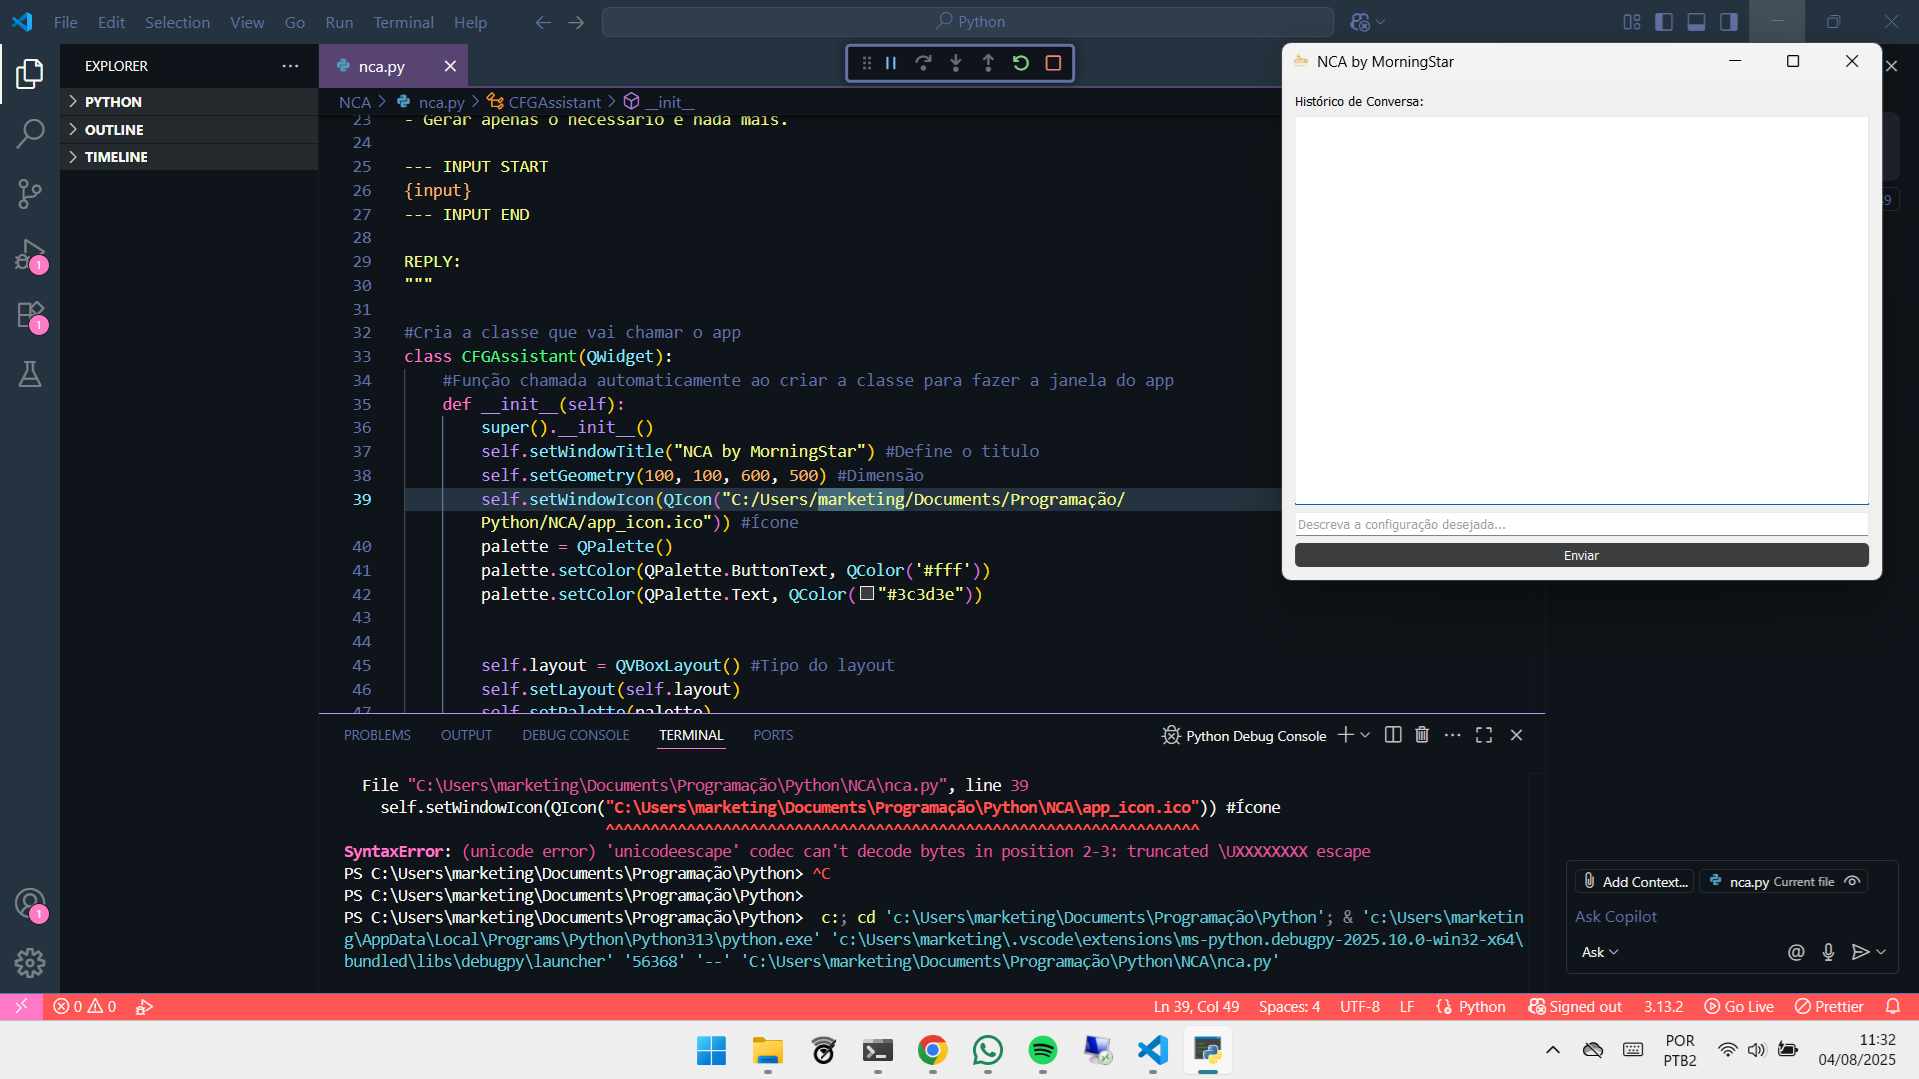
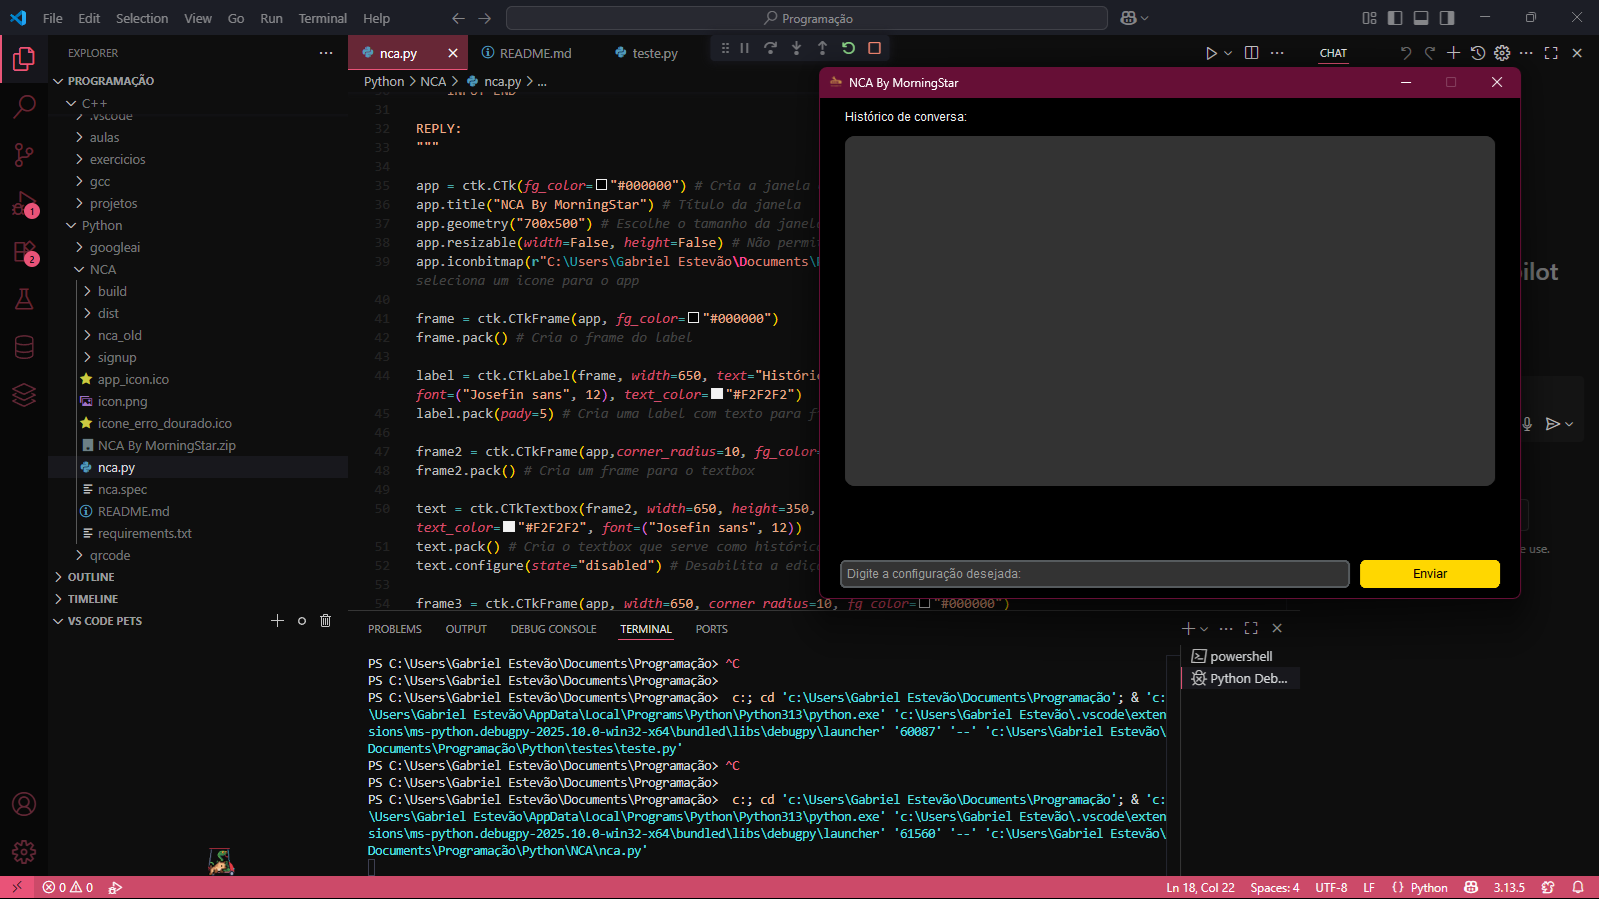
More changes in the readme
Changed more of the readme fixing some text errors and updated the print of the working app.

diff --git a/README.md b/README.md
@@ -12,7 +12,7 @@
 
 ## 🚀 Sobre o Projeto  
 O **NCA by MorningStar** é um assistente inteligente para **automação de redes**, capaz de gerar **comandos CLI** e **scripts prontos** para configuração de **roteadores, switches, firewalls, Mikrotik e servidores (Linux/Windows)**.  
-Tudo isso através de uma interface gráfica simples e intuitiva, usando **PyQt5**.  
+Tudo isso através de uma interface gráfica simples e intuitiva, usando **CustomTkinter**.  
 
 ---
 
@@ -26,7 +26,7 @@ Tudo isso através de uma interface gráfica simples e intuitiva, usando **PyQt5
 ---
 
 ## ✨ Features  
-✅ Interface gráfica responsiva (**PyQt5**)  
+✅ Interface gráfica responsiva (**CustomTkinter**)  
 ✅ Integração com **Google Gemini**  
 ✅ Histórico de conversas integrado  
 ✅ Geração de **comandos CLI prontos**  
@@ -116,8 +116,9 @@ Explicação:
 - [ ] Adicionar suporte a múltiplos modelos IA
 - [x] Adicionar histórico de conversas
 - [ ] Exportar scripts para arquivo  
-- [ ] Dark Mode  
-- [ ] Modo CLI sem interface gráfica  
+- [x] Dark Mode  
+- [ ] Modo CLI sem interface gráfica
+- [x] Nova interface gráfica
 
 ---
 
